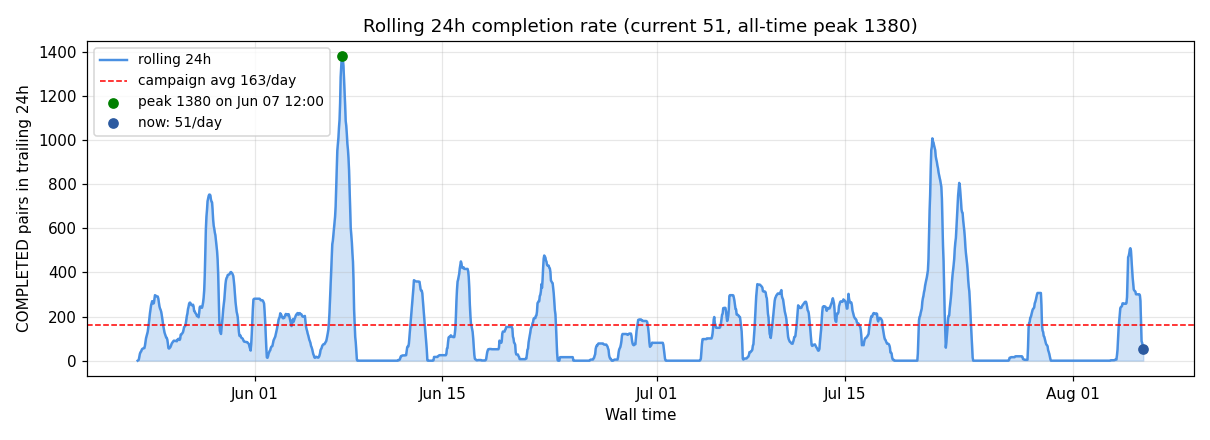
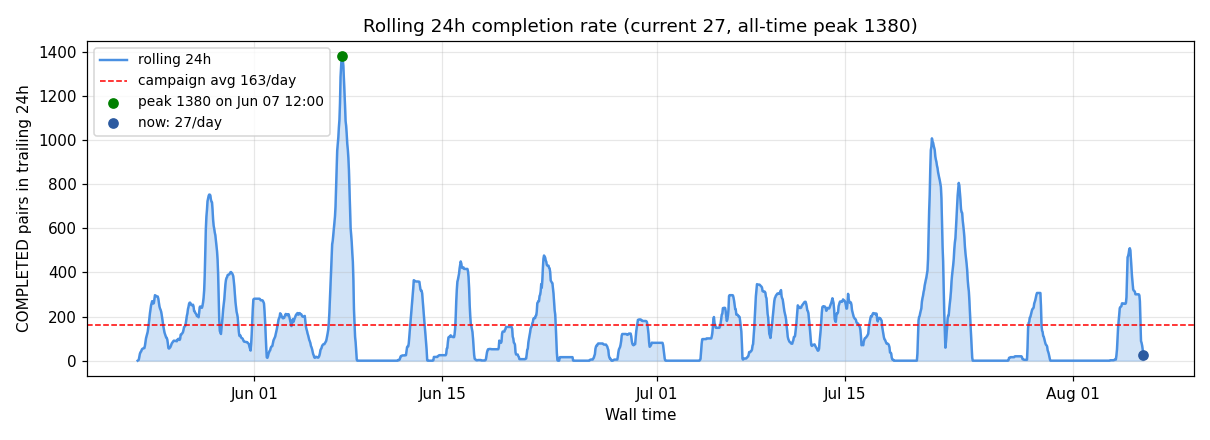
auto: 2026-08-06 05:24:40

diff --git a/index.html b/index.html
@@ -24,12 +24,12 @@ tr:nth-child(even) { background: #fafafa; }
 </style>
 </head><body>
 <h1>AF3 Campaign Dashboard</h1>
-<p class="stamp">Last updated: <strong>2026-08-06 04:24 EDT</strong> · regenerated on the cluster hourly · this page auto-reloads every 30 min</p>
+<p class="stamp">Last updated: <strong>2026-08-06 05:24 EDT</strong> · regenerated on the cluster hourly · this page auto-reloads every 30 min</p>
 
 <div class="cards">
   <div class="card"><div class="v">12,239</div><div class="l">Total COMPLETED pairs</div></div>
   <div class="card"><div class="v">0</div><div class="l">Done today</div></div>
-  <div class="card"><div class="v">60</div><div class="l">Last 24 h rate</div></div>
+  <div class="card"><div class="v">40</div><div class="l">Last 24 h rate</div></div>
   <div class="card"><div class="v">0 / 50</div><div class="l">Running / Pending now</div></div>
 </div>
 
@@ -46,7 +46,7 @@ tr:nth-child(even) { background: #fafafa; }
     <h3>PENDING (50)</h3>
     <div class="queue-table">
       <table><thead><tr><th>Job</th><th>Wait</th><th>Limit</th><th>Reason</th></tr></thead>
-      <tbody><tr><td>p058-p068_af3</td><td>0:00</td><td>1:30:00</td><td>(Priority)</td></tr><tr><td>p058-p067_af3</td><td>0:00</td><td>1:30:00</td><td>(Priority)</td></tr><tr><td>p058-p065_af3</td><td>0:00</td><td>1:30:00</td><td>(Priority)</td></tr><tr><td>p058-p066_af3</td><td>0:00</td><td>1:30:00</td><td>(Priority)</td></tr><tr><td>p058-p064_af3</td><td>0:00</td><td>1:30:00</td><td>(Priority)</td></tr><tr><td>p058-p062_af3</td><td>0:00</td><td>1:30:00</td><td>(Priority)</td></tr><tr><td>p058-p063_af3</td><td>0:00</td><td>1:30:00</td><td>(Priority)</td></tr><tr><td>p058-p060_af3</td><td>0:00</td><td>1:30:00</td><td>(Priority)</td></tr><tr><td>p058-p061_af3</td><td>0:00</td><td>1:30:00</td><td>(Priority)</td></tr><tr><td>p059-p065_af3</td><td>0:00</td><td>30:00</td><td>(Priority)</td></tr><tr><td>p059-p066_af3</td><td>0:00</td><td>1:30:00</td><td>(Priority)</td></tr><tr><td>p059-p067_af3</td><td>0:00</td><td>1:30:00</td><td>(Priority)</td></tr><tr><td>p059-p064_af3</td><td>0:00</td><td>30:00</td><td>(Priority)</td></tr><tr><td>p059-p063_af3</td><td>0:00</td><td>1:30:00</td><td>(Priority)</td></tr><tr><td>p059-p061_af3</td><td>0:00</td><td>30:00</td><td>(Priority)</td></tr><tr><td>p059-p062_af3</td><td>0:00</td><td>30:00</td><td>(Priority)</td></tr><tr><td>p059-p060_af3</td><td>0:00</td><td>1:30:00</td><td>(Priority)</td></tr><tr><td>p058-p378_af3</td><td>0:00</td><td>1:30:00</td><td>(Priority)</td></tr><tr><td>p058-p383_af3</td><td>0:00</td><td>1:30:00</td><td>(Priority)</td></tr><tr><td>p058-p387_af3</td><td>0:00</td><td>1:30:00</td><td>(Priority)</td></tr><tr><td>p058-p363_af3</td><td>0:00</td><td>30:00</td><td>(Priority)</td></tr><tr><td>p058-p341_af3</td><td>0:00</td><td>30:00</td><td>(Priority)</td></tr><tr><td>p058-p344_af3</td><td>0:00</td><td>30:00</td><td>(Priority)</td></tr><tr><td>p058-p339_af3</td><td>0:00</td><td>30:00</td><td>(Priority)</td></tr><tr><td>p058-p340_af3</td><td>0:00</td><td>30:00</td><td>(Priority)</td></tr><tr><td>p058-p338_af3</td><td>0:00</td><td>30:00</td><td>(Priority)</td></tr><tr><td>p058-p327_af3</td><td>0:00</td><td>1:30:00</td><td>(Priority)</td></tr><tr><td>p058-p291_af3</td><td>0:00</td><td>1:30:00</td><td>(Priority)</td></tr><tr><td>p058-p275_af3</td><td>0:00</td><td>1:30:00</td><td>(Priority)</td></tr><tr><td>p058-p242_af3</td><td>0:00</td><td>1:30:00</td><td>(Priority)</td></tr><tr><td>p058-p208_af3</td><td>0:00</td><td>1:30:00</td><td>(Priority)</td></tr><tr><td>p058-p175_af3</td><td>0:00</td><td>1:30:00</td><td>(Priority)</td></tr><tr><td>p058-p184_af3</td><td>0:00</td><td>1:30:00</td><td>(Priority)</td></tr><tr><td>p058-p161_af3</td><td>0:00</td><td>30:00</td><td>(Priority)</td></tr><tr><td>p058-p083_af3</td><td>0:00</td><td>30:00</td><td>(Priority)</td></tr><tr><td>p058-p120_af3</td><td>0:00</td><td>1:30:00</td><td>(Priority)</td></tr><tr><td>p058-p131_af3</td><td>0:00</td><td>3:00:00</td><td>(Priority)</td></tr><tr><td>p058-p080_af3</td><td>0:00</td><td>30:00</td><td>(Priority)</td></tr><tr><td>p058-p082_af3</td><td>0:00</td><td>1:30:00</td><td>(Priority)</td></tr><tr><td>p058-p078_af3</td><td>0:00</td><td>30:00</td><td>(Priority)</td></tr><tr><td>p058-p077_af3</td><td>0:00</td><td>1:30:00</td><td>(Priority)</td></tr><tr><td>p058-p075_af3</td><td>0:00</td><td>30:00</td><td>(Priority)</td></tr><tr><td>p058-p076_af3</td><td>0:00</td><td>1:30:00</td><td>(Priority)</td></tr><tr><td>p058-p074_af3</td><td>0:00</td><td>1:30:00</td><td>(Priority)</td></tr><tr><td>p058-p072_af3</td><td>0:00</td><td>1:30:00</td><td>(Priority)</td></tr><tr><td>p058-p073_af3</td><td>0:00</td><td>1:30:00</td><td>(Priority)</td></tr><tr><td>p059-p073_af3</td><td>0:00</td><td>1:30:00</td><td>(Priority)</td></tr><tr><td>p059-p075_af3</td><td>0:00</td><td>1:30:00</td><td>(Priority)</td></tr><tr><td>p059-p072_af3</td><td>0:00</td><td>1:30:00</td><td>(Priority)</td></tr><tr><td>p059-p068_af3</td><td>0:00</td><td>1:30:00</td><td>(Priority)</td></tr></tbody></table>
+      <tbody><tr><td>p058-p060_af3</td><td>0:00</td><td>1:30:00</td><td>(Priority)</td></tr><tr><td>p059-p060_af3</td><td>0:00</td><td>1:30:00</td><td>(Priority)</td></tr><tr><td>p058-p378_af3</td><td>0:00</td><td>1:30:00</td><td>(Priority)</td></tr><tr><td>p058-p383_af3</td><td>0:00</td><td>1:30:00</td><td>(Priority)</td></tr><tr><td>p058-p387_af3</td><td>0:00</td><td>1:30:00</td><td>(Priority)</td></tr><tr><td>p058-p363_af3</td><td>0:00</td><td>30:00</td><td>(Priority)</td></tr><tr><td>p058-p341_af3</td><td>0:00</td><td>30:00</td><td>(Priority)</td></tr><tr><td>p058-p344_af3</td><td>0:00</td><td>30:00</td><td>(Priority)</td></tr><tr><td>p058-p339_af3</td><td>0:00</td><td>30:00</td><td>(Priority)</td></tr><tr><td>p058-p340_af3</td><td>0:00</td><td>30:00</td><td>(Priority)</td></tr><tr><td>p058-p338_af3</td><td>0:00</td><td>30:00</td><td>(Priority)</td></tr><tr><td>p058-p327_af3</td><td>0:00</td><td>1:30:00</td><td>(Priority)</td></tr><tr><td>p058-p291_af3</td><td>0:00</td><td>1:30:00</td><td>(Priority)</td></tr><tr><td>p058-p275_af3</td><td>0:00</td><td>1:30:00</td><td>(Priority)</td></tr><tr><td>p058-p242_af3</td><td>0:00</td><td>1:30:00</td><td>(Priority)</td></tr><tr><td>p058-p208_af3</td><td>0:00</td><td>1:30:00</td><td>(Priority)</td></tr><tr><td>p058-p175_af3</td><td>0:00</td><td>1:30:00</td><td>(Priority)</td></tr><tr><td>p058-p184_af3</td><td>0:00</td><td>1:30:00</td><td>(Priority)</td></tr><tr><td>p058-p161_af3</td><td>0:00</td><td>30:00</td><td>(Priority)</td></tr><tr><td>p058-p083_af3</td><td>0:00</td><td>30:00</td><td>(Priority)</td></tr><tr><td>p058-p120_af3</td><td>0:00</td><td>1:30:00</td><td>(Priority)</td></tr><tr><td>p058-p131_af3</td><td>0:00</td><td>3:00:00</td><td>(Priority)</td></tr><tr><td>p058-p080_af3</td><td>0:00</td><td>30:00</td><td>(Priority)</td></tr><tr><td>p058-p082_af3</td><td>0:00</td><td>1:30:00</td><td>(Priority)</td></tr><tr><td>p058-p078_af3</td><td>0:00</td><td>30:00</td><td>(Priority)</td></tr><tr><td>p058-p077_af3</td><td>0:00</td><td>1:30:00</td><td>(Priority)</td></tr><tr><td>p058-p075_af3</td><td>0:00</td><td>30:00</td><td>(Priority)</td></tr><tr><td>p058-p076_af3</td><td>0:00</td><td>1:30:00</td><td>(Priority)</td></tr><tr><td>p058-p074_af3</td><td>0:00</td><td>1:30:00</td><td>(Priority)</td></tr><tr><td>p058-p072_af3</td><td>0:00</td><td>1:30:00</td><td>(Priority)</td></tr><tr><td>p058-p073_af3</td><td>0:00</td><td>1:30:00</td><td>(Priority)</td></tr><tr><td>p058-p068_af3</td><td>0:00</td><td>1:30:00</td><td>(Priority)</td></tr><tr><td>p058-p067_af3</td><td>0:00</td><td>1:30:00</td><td>(Priority)</td></tr><tr><td>p058-p065_af3</td><td>0:00</td><td>1:30:00</td><td>(Priority)</td></tr><tr><td>p058-p066_af3</td><td>0:00</td><td>1:30:00</td><td>(Priority)</td></tr><tr><td>p058-p064_af3</td><td>0:00</td><td>1:30:00</td><td>(Priority)</td></tr><tr><td>p058-p062_af3</td><td>0:00</td><td>1:30:00</td><td>(Priority)</td></tr><tr><td>p058-p063_af3</td><td>0:00</td><td>1:30:00</td><td>(Priority)</td></tr><tr><td>p058-p061_af3</td><td>0:00</td><td>1:30:00</td><td>(Priority)</td></tr><tr><td>p059-p073_af3</td><td>0:00</td><td>1:30:00</td><td>(Priority)</td></tr><tr><td>p059-p075_af3</td><td>0:00</td><td>1:30:00</td><td>(Priority)</td></tr><tr><td>p059-p072_af3</td><td>0:00</td><td>1:30:00</td><td>(Priority)</td></tr><tr><td>p059-p068_af3</td><td>0:00</td><td>1:30:00</td><td>(Priority)</td></tr><tr><td>p059-p065_af3</td><td>0:00</td><td>30:00</td><td>(Priority)</td></tr><tr><td>p059-p066_af3</td><td>0:00</td><td>1:30:00</td><td>(Priority)</td></tr><tr><td>p059-p067_af3</td><td>0:00</td><td>1:30:00</td><td>(Priority)</td></tr><tr><td>p059-p064_af3</td><td>0:00</td><td>30:00</td><td>(Priority)</td></tr><tr><td>p059-p063_af3</td><td>0:00</td><td>1:30:00</td><td>(Priority)</td></tr><tr><td>p059-p061_af3</td><td>0:00</td><td>30:00</td><td>(Priority)</td></tr><tr><td>p059-p062_af3</td><td>0:00</td><td>30:00</td><td>(Priority)</td></tr></tbody></table>
     </div>
   </div>
 </div>
